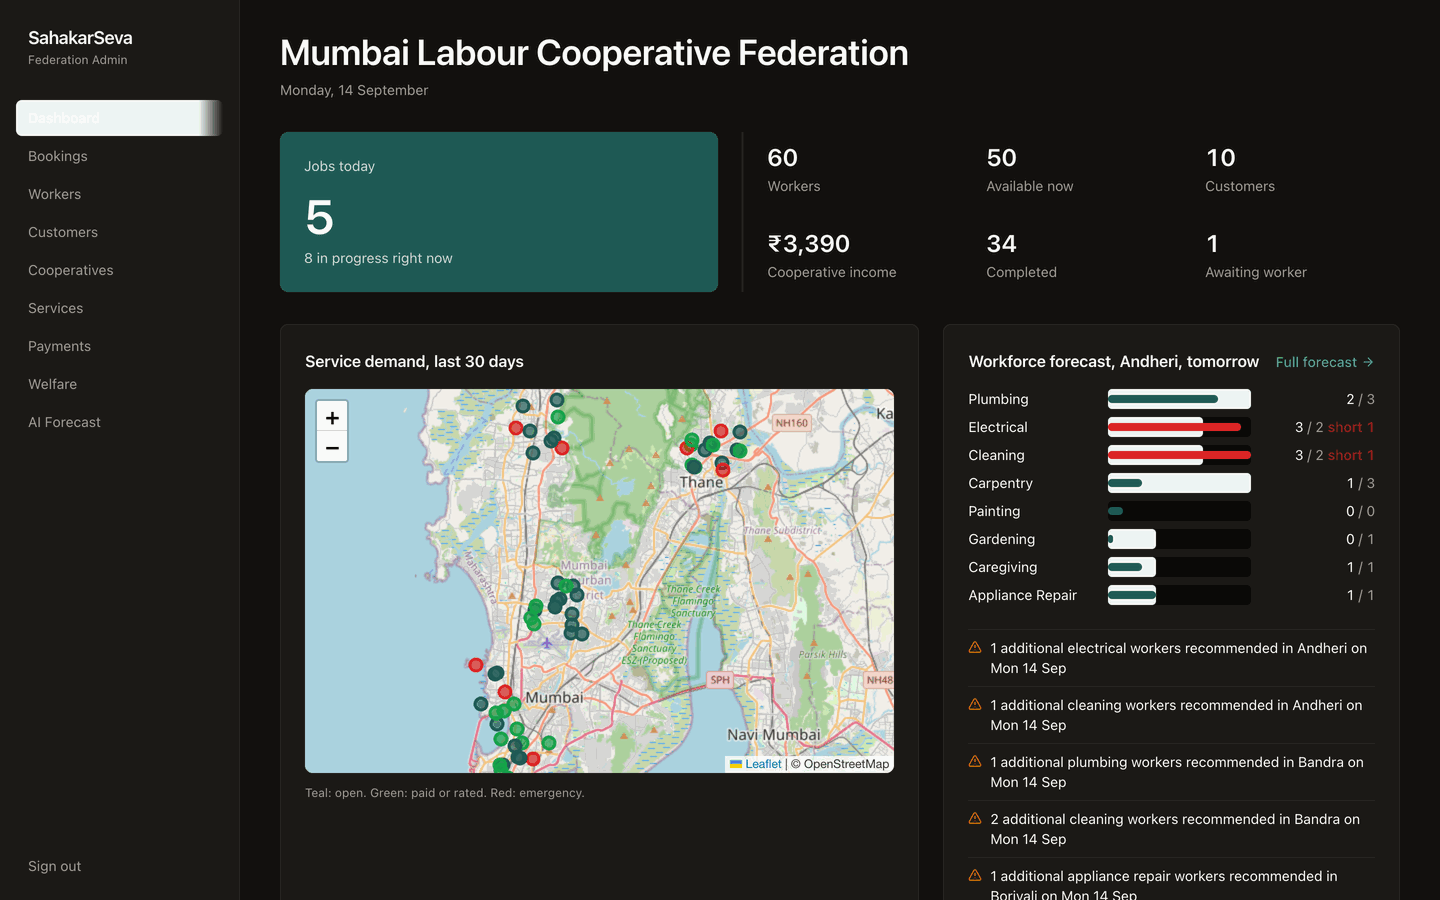
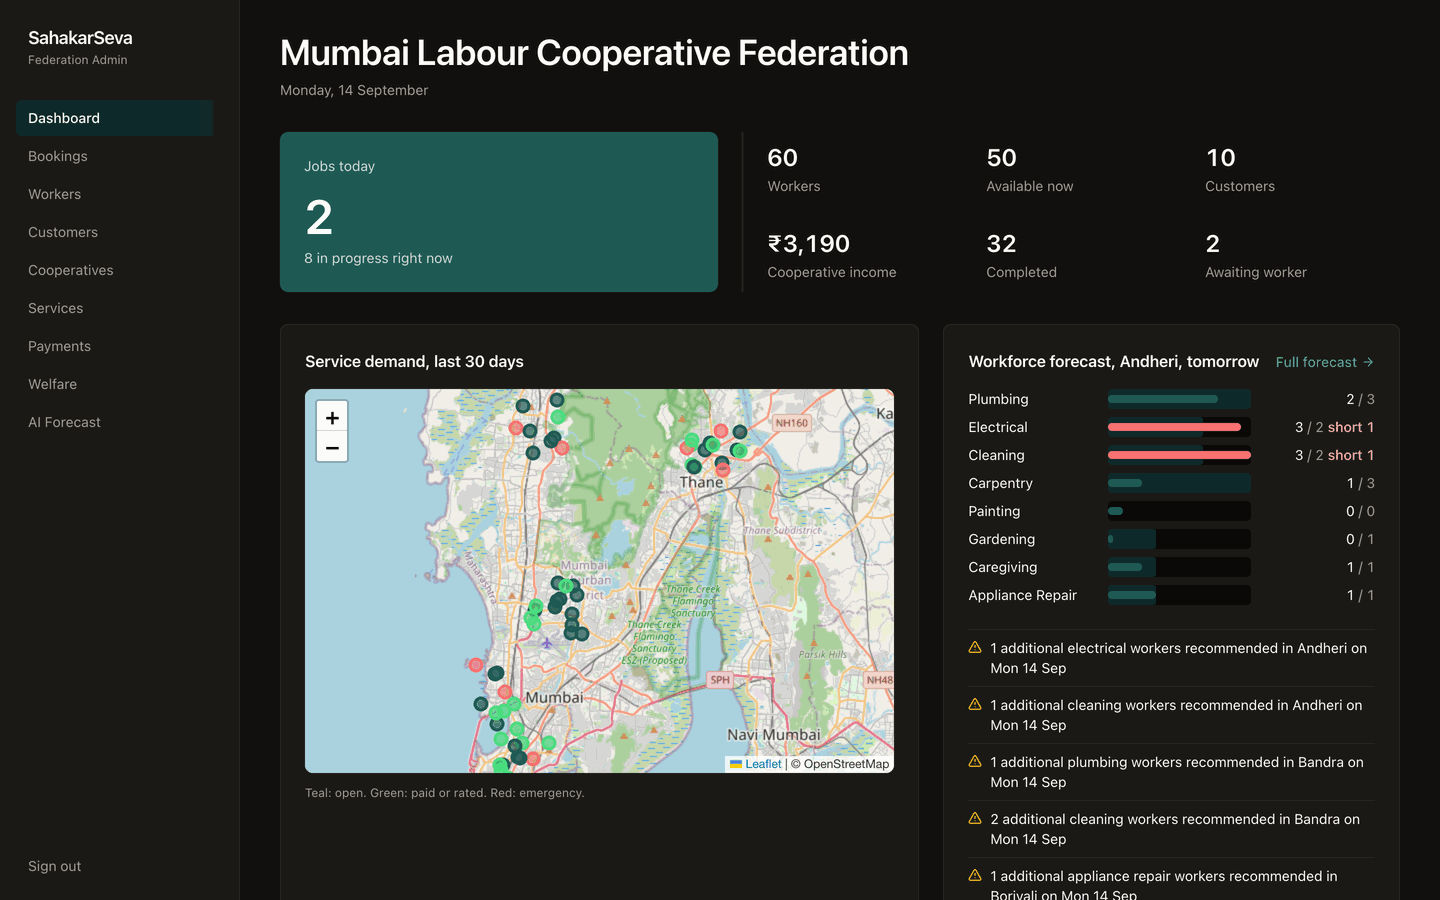
fix(theme): dark overrides for interactive and feedback tokens; simplify proxy
The kit ships no dark values for interactive.* or feedback.*, so the
selected nav item, the hero match card, status badges, and welfare pills
rendered as light pastels on dark surfaces. Add deep tinted surfaces with
light text (all pairs 7.6:1 or better), regenerate both outputs, recapture
the dark-mode screenshots.

proxy.ts no longer decodes the JWT: the token cookie now carries a 14-minute
maxAge so the browser drops it before the backend rejects it, and a missing
token is the only refresh trigger. Cookie options are shared with the login
route. Verified with a curl matrix and a headless-browser flow (delete the
access cookie, reload, page renders with a fresh one).

diff --git a/mobile/lib/theme_tokens.g.dart b/mobile/lib/theme_tokens.g.dart
@@ -32,5 +32,5 @@ class DsColors {
   final Color feedbackInfoBg;
   final Color feedbackInfoText;
   static const light = DsColors(actionPrimary: Color(0xFF1F5A55), actionPrimaryHover: Color(0xFF174744), actionDestructive: Color(0xFFDC2626), actionSecondary: Color(0xFFF3F1EE), textPrimary: Color(0xFF1C1A17), textSecondary: Color(0xFF57524B), textTertiary: Color(0xFFA29C93), textOnAction: Color(0xFFFDFCFA), textLink: Color(0xFF1F5A55), surfacePage: Color(0xFFFDFCFA), surfaceCard: Color(0xFFFDFCFA), surfaceRaised: Color(0xFFFDFCFA), surfaceSunken: Color(0xFFFAF9F7), borderDefault: Color(0xFFE6E2DD), borderStrong: Color(0xFF726C64), borderFocus: Color(0xFF2F7169), interactiveSelectedBg: Color(0xFFEEF5F4), feedbackSuccessBg: Color(0xFFF0FDF4), feedbackSuccessText: Color(0xFF166534), feedbackSuccessIcon: Color(0xFF16A34A), feedbackWarningBg: Color(0xFFFFFBEB), feedbackWarningText: Color(0xFF92400E), feedbackWarningIcon: Color(0xFFD97706), feedbackErrorBg: Color(0xFFFEF2F2), feedbackErrorText: Color(0xFF991B1B), feedbackErrorIcon: Color(0xFFDC2626), feedbackInfoBg: Color(0xFFEEF5F4), feedbackInfoText: Color(0xFF123736));
-  static const dark = DsColors(actionPrimary: Color(0xFF1F5A55), actionPrimaryHover: Color(0xFF174744), actionDestructive: Color(0xFFDC2626), actionSecondary: Color(0xFF2A2724), textPrimary: Color(0xFFFAF9F7), textSecondary: Color(0xFFA29C93), textTertiary: Color(0xFF726C64), textOnAction: Color(0xFFFDFCFA), textLink: Color(0xFF4F918A), surfacePage: Color(0xFF12100E), surfaceCard: Color(0xFF1C1A17), surfaceRaised: Color(0xFF2A2724), surfaceSunken: Color(0xFF0C0B0A), borderDefault: Color(0xFF2A2724), borderStrong: Color(0xFF726C64), borderFocus: Color(0xFF2F7169), interactiveSelectedBg: Color(0xFFEEF5F4), feedbackSuccessBg: Color(0xFFF0FDF4), feedbackSuccessText: Color(0xFF166534), feedbackSuccessIcon: Color(0xFF16A34A), feedbackWarningBg: Color(0xFFFFFBEB), feedbackWarningText: Color(0xFF92400E), feedbackWarningIcon: Color(0xFFD97706), feedbackErrorBg: Color(0xFFFEF2F2), feedbackErrorText: Color(0xFF991B1B), feedbackErrorIcon: Color(0xFFDC2626), feedbackInfoBg: Color(0xFFEEF5F4), feedbackInfoText: Color(0xFF123736));
+  static const dark = DsColors(actionPrimary: Color(0xFF1F5A55), actionPrimaryHover: Color(0xFF174744), actionDestructive: Color(0xFFDC2626), actionSecondary: Color(0xFF2A2724), textPrimary: Color(0xFFFAF9F7), textSecondary: Color(0xFFA29C93), textTertiary: Color(0xFF726C64), textOnAction: Color(0xFFFDFCFA), textLink: Color(0xFF4F918A), surfacePage: Color(0xFF12100E), surfaceCard: Color(0xFF1C1A17), surfaceRaised: Color(0xFF2A2724), surfaceSunken: Color(0xFF0C0B0A), borderDefault: Color(0xFF2A2724), borderStrong: Color(0xFF726C64), borderFocus: Color(0xFF2F7169), interactiveSelectedBg: Color(0xFF0F2A2A), feedbackSuccessBg: Color(0xFF052E16), feedbackSuccessText: Color(0xFF86EFAC), feedbackSuccessIcon: Color(0xFF4ADE80), feedbackWarningBg: Color(0xFF451A03), feedbackWarningText: Color(0xFFFCD34D), feedbackWarningIcon: Color(0xFFFBBF24), feedbackErrorBg: Color(0xFF450A0A), feedbackErrorText: Color(0xFFFCA5A5), feedbackErrorIcon: Color(0xFFF87171), feedbackInfoBg: Color(0xFF081A1A), feedbackInfoText: Color(0xFF7FB2AB));
 }

diff --git a/admin/src/proxy.ts b/admin/src/proxy.ts
@@ -1,28 +1,20 @@
 import { NextRequest, NextResponse } from "next/server";
 
 const API = process.env.API_URL ?? "http://localhost:8000/api/v1";
-const expSoon = (jwt: string) => {
-  try { return JSON.parse(atob(jwt.split(".")[1])).exp * 1000 < Date.now() + 60_000; } catch { return true; }
-};
+export const TOKEN_COOKIE = { httpOnly: true, sameSite: "lax" as const, path: "/", maxAge: 14 * 60 }; // browser drops it before the 15-min JWT dies
 
 export async function proxy(req: NextRequest) {
   const { pathname } = req.nextUrl;
   if (pathname.startsWith("/login") || pathname.startsWith("/api/")) return NextResponse.next();
-  const token = req.cookies.get("token")?.value;
+  if (req.cookies.get("token")) return NextResponse.next();
+  // access token gone: swap it using the 30-day refresh token, before the page renders
   const refresh = req.cookies.get("refresh")?.value;
-  if (!token && !refresh) return NextResponse.redirect(new URL("/login", req.url));
-  if (token && !expSoon(token)) return NextResponse.next();
-  // access token expired or about to: swap it using the 30-day refresh token, before the page renders
   const r = refresh && await fetch(`${API}/auth/refresh`, { method: "POST", headers: { "content-type": "application/json" }, body: JSON.stringify({ refresh_token: refresh }) });
-  if (!r || !r.ok) {
-    const out = NextResponse.redirect(new URL("/login", req.url));
-    out.cookies.delete("token"); out.cookies.delete("refresh");
-    return out;
-  }
-  const data = await r.json();
-  req.cookies.set("token", data.access_token); // so this request's server components see the new token
+  if (!r || !r.ok) return NextResponse.redirect(new URL("/login", req.url));
+  const { access_token } = await r.json();
+  req.cookies.set("token", access_token); // so this request's server components see the new token
   const res = NextResponse.next({ request: { headers: req.headers } });
-  res.cookies.set("token", data.access_token, { httpOnly: true, sameSite: "lax", path: "/" });
+  res.cookies.set("token", access_token, TOKEN_COOKIE);
   return res; // the refresh cookie stays; the backend does not rotate it
 }
 

diff --git a/admin/src/app/theme.css b/admin/src/app/theme.css
@@ -250,6 +250,27 @@
   --color-action-primary-hover: #174744;
   --color-action-secondary: #2a2724;
   --color-action-secondary-hover: #413d38;
+  --color-interactive-hover-overlay: rgba(255, 255, 255, 0.06);
+  --color-interactive-active-overlay: rgba(255, 255, 255, 0.10);
+  --color-interactive-selected-bg: #0f2a2a;
+  --color-interactive-selected-border: #174744;
+  --color-interactive-focus-ring: #4f918a;
+  --color-feedback-success-bg: #052e16;
+  --color-feedback-success-text: #86efac;
+  --color-feedback-success-border: #166534;
+  --color-feedback-success-icon: #4ade80;
+  --color-feedback-warning-bg: #451a03;
+  --color-feedback-warning-text: #fcd34d;
+  --color-feedback-warning-border: #92400e;
+  --color-feedback-warning-icon: #fbbf24;
+  --color-feedback-error-bg: #450a0a;
+  --color-feedback-error-text: #fca5a5;
+  --color-feedback-error-border: #991b1b;
+  --color-feedback-error-icon: #f87171;
+  --color-feedback-info-bg: #081a1a;
+  --color-feedback-info-text: #7fb2ab;
+  --color-feedback-info-border: #123736;
+  --color-feedback-info-icon: #4f918a;
   --color-button-primary-bg: #1f5a55;
   --color-button-primary-bg-hover: #174744;
   --color-button-primary-bg-active: #123736;
@@ -257,7 +278,7 @@
   --color-button-secondary-bg: #2a2724;
   --color-button-secondary-bg-hover: #413d38;
   --color-button-secondary-text: #faf9f7;
-  --color-button-ghost-bg-hover: rgba(0, 0, 0, 0.04);
+  --color-button-ghost-bg-hover: rgba(255, 255, 255, 0.06);
   --color-button-ghost-text: #faf9f7;
   --color-button-destructive-bg: #dc2626;
   --color-button-destructive-bg-hover: #b91c1c;

diff --git a/admin/src/app/api/login/route.ts b/admin/src/app/api/login/route.ts
@@ -1,5 +1,6 @@
 import { NextResponse } from "next/server";
 import { API } from "@/lib/api";
+import { TOKEN_COOKIE } from "@/proxy";
 
 export async function POST(req: Request) {
   const body = await req.json();
@@ -8,7 +9,7 @@ export async function POST(req: Request) {
   const data = await r.json();
   if (data.role !== "admin") return NextResponse.json({ error: "Admin account required" }, { status: 403 });
   const res = NextResponse.json({ ok: true });
-  res.cookies.set("token", data.access_token, { httpOnly: true, sameSite: "lax", path: "/" });
+  res.cookies.set("token", data.access_token, TOKEN_COOKIE);
   res.cookies.set("refresh", data.refresh_token, { httpOnly: true, sameSite: "lax", path: "/", maxAge: 30 * 24 * 3600 });
   return res;
 }
